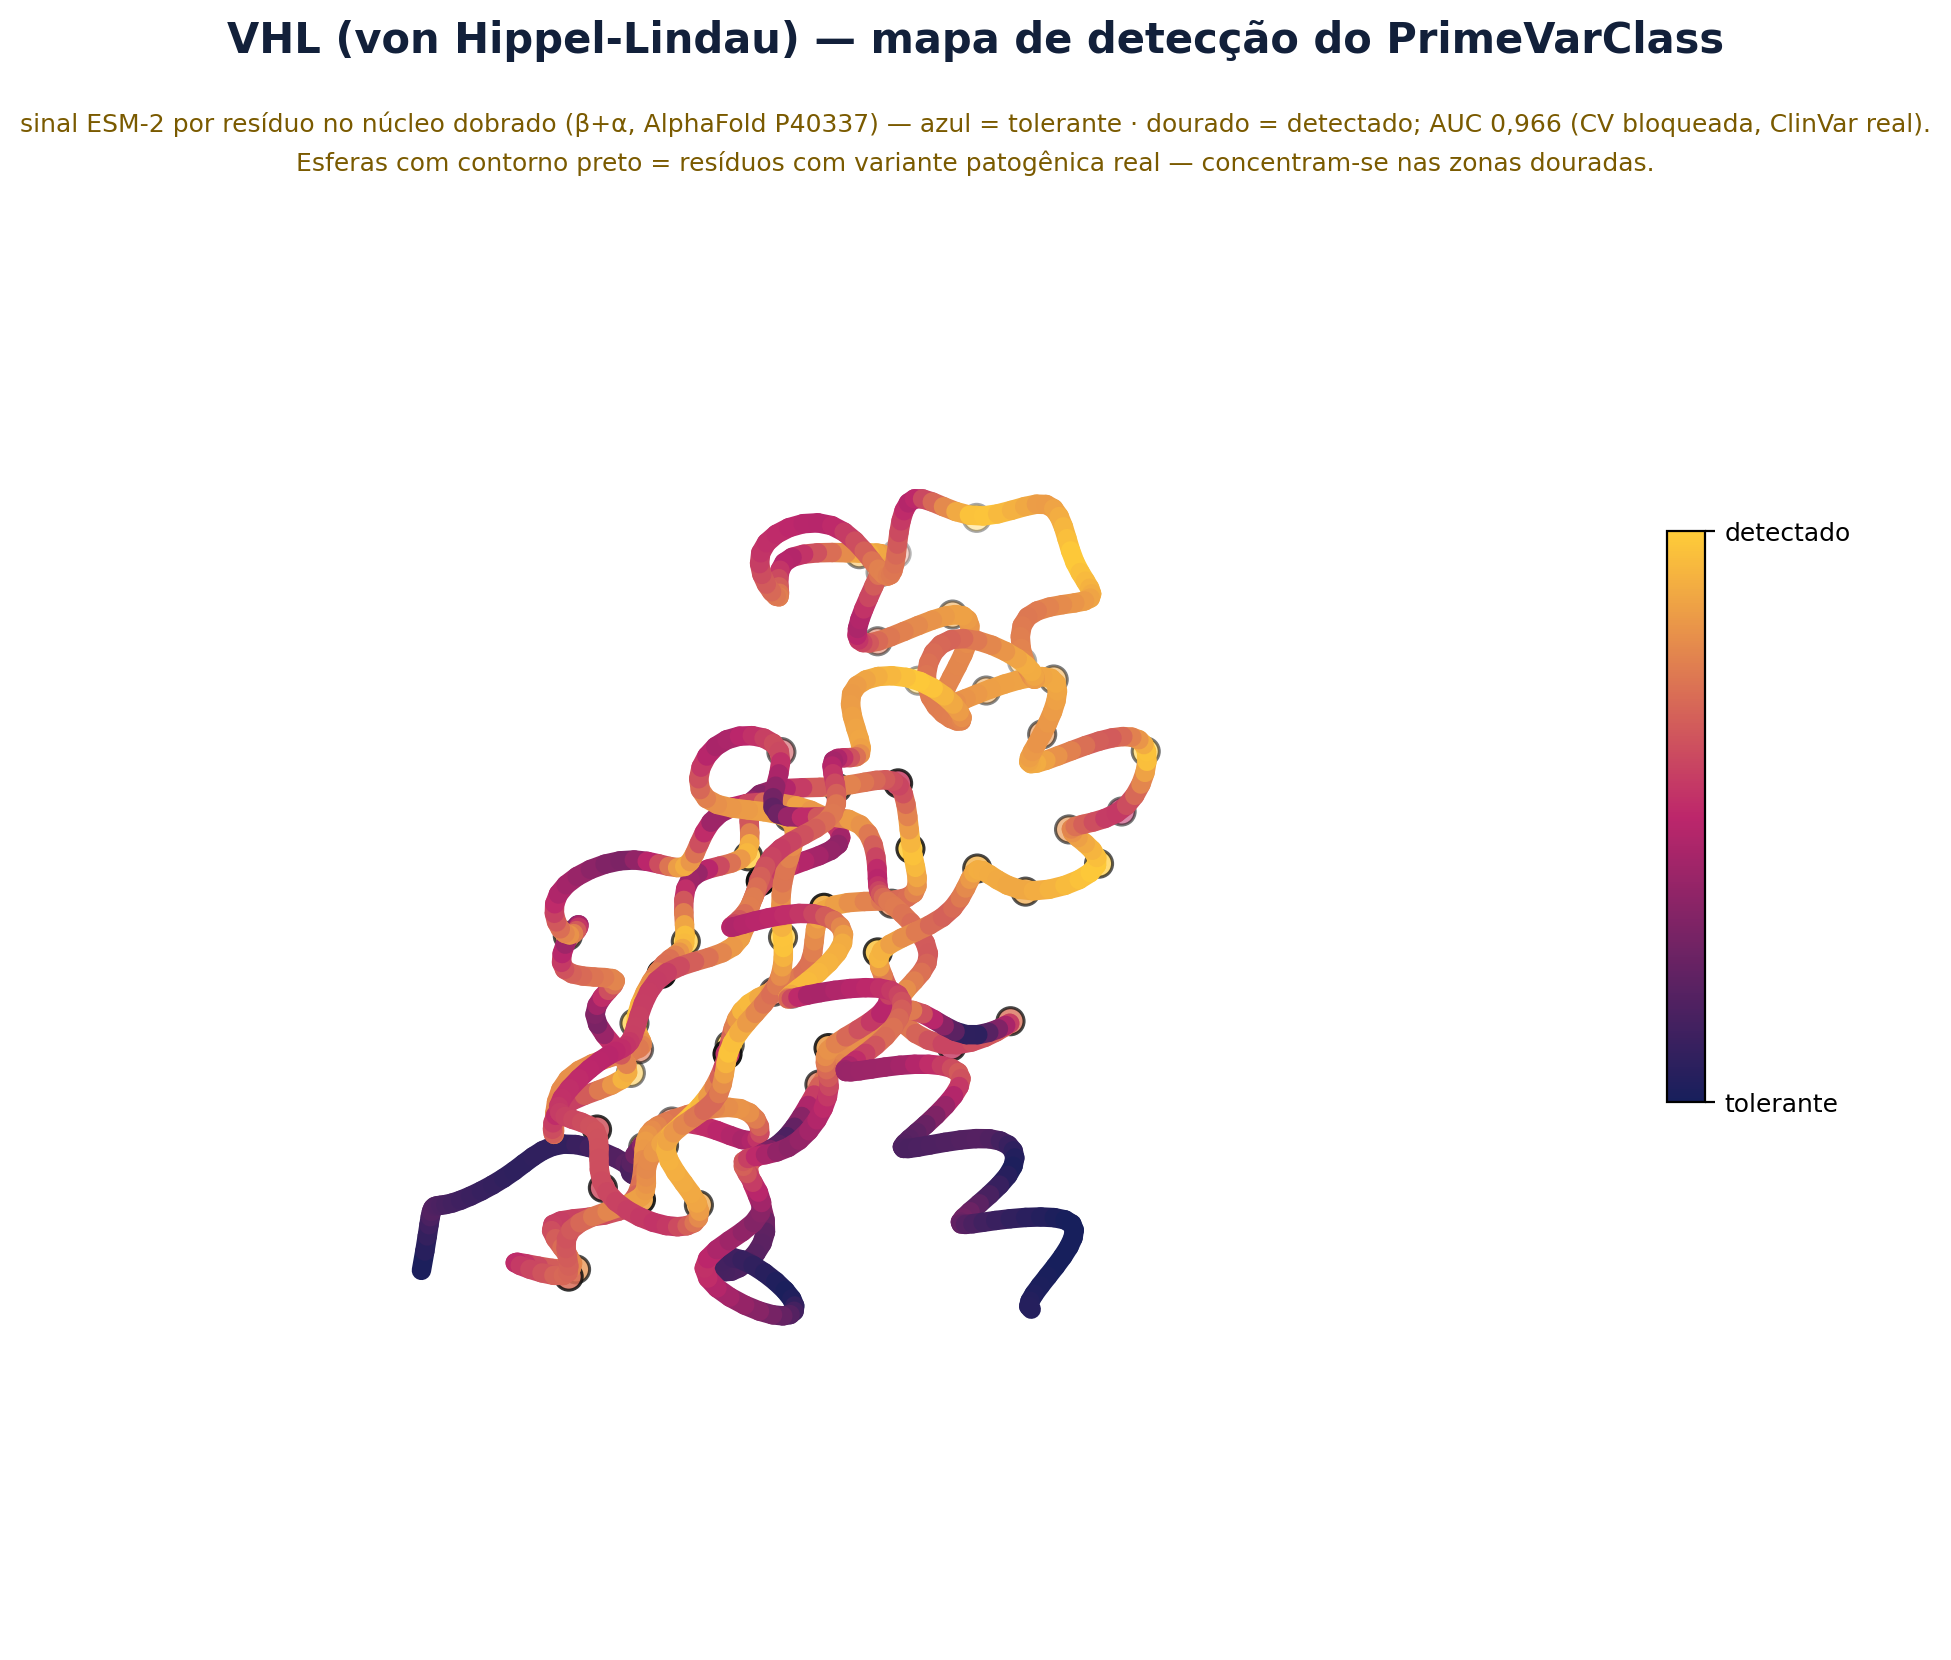
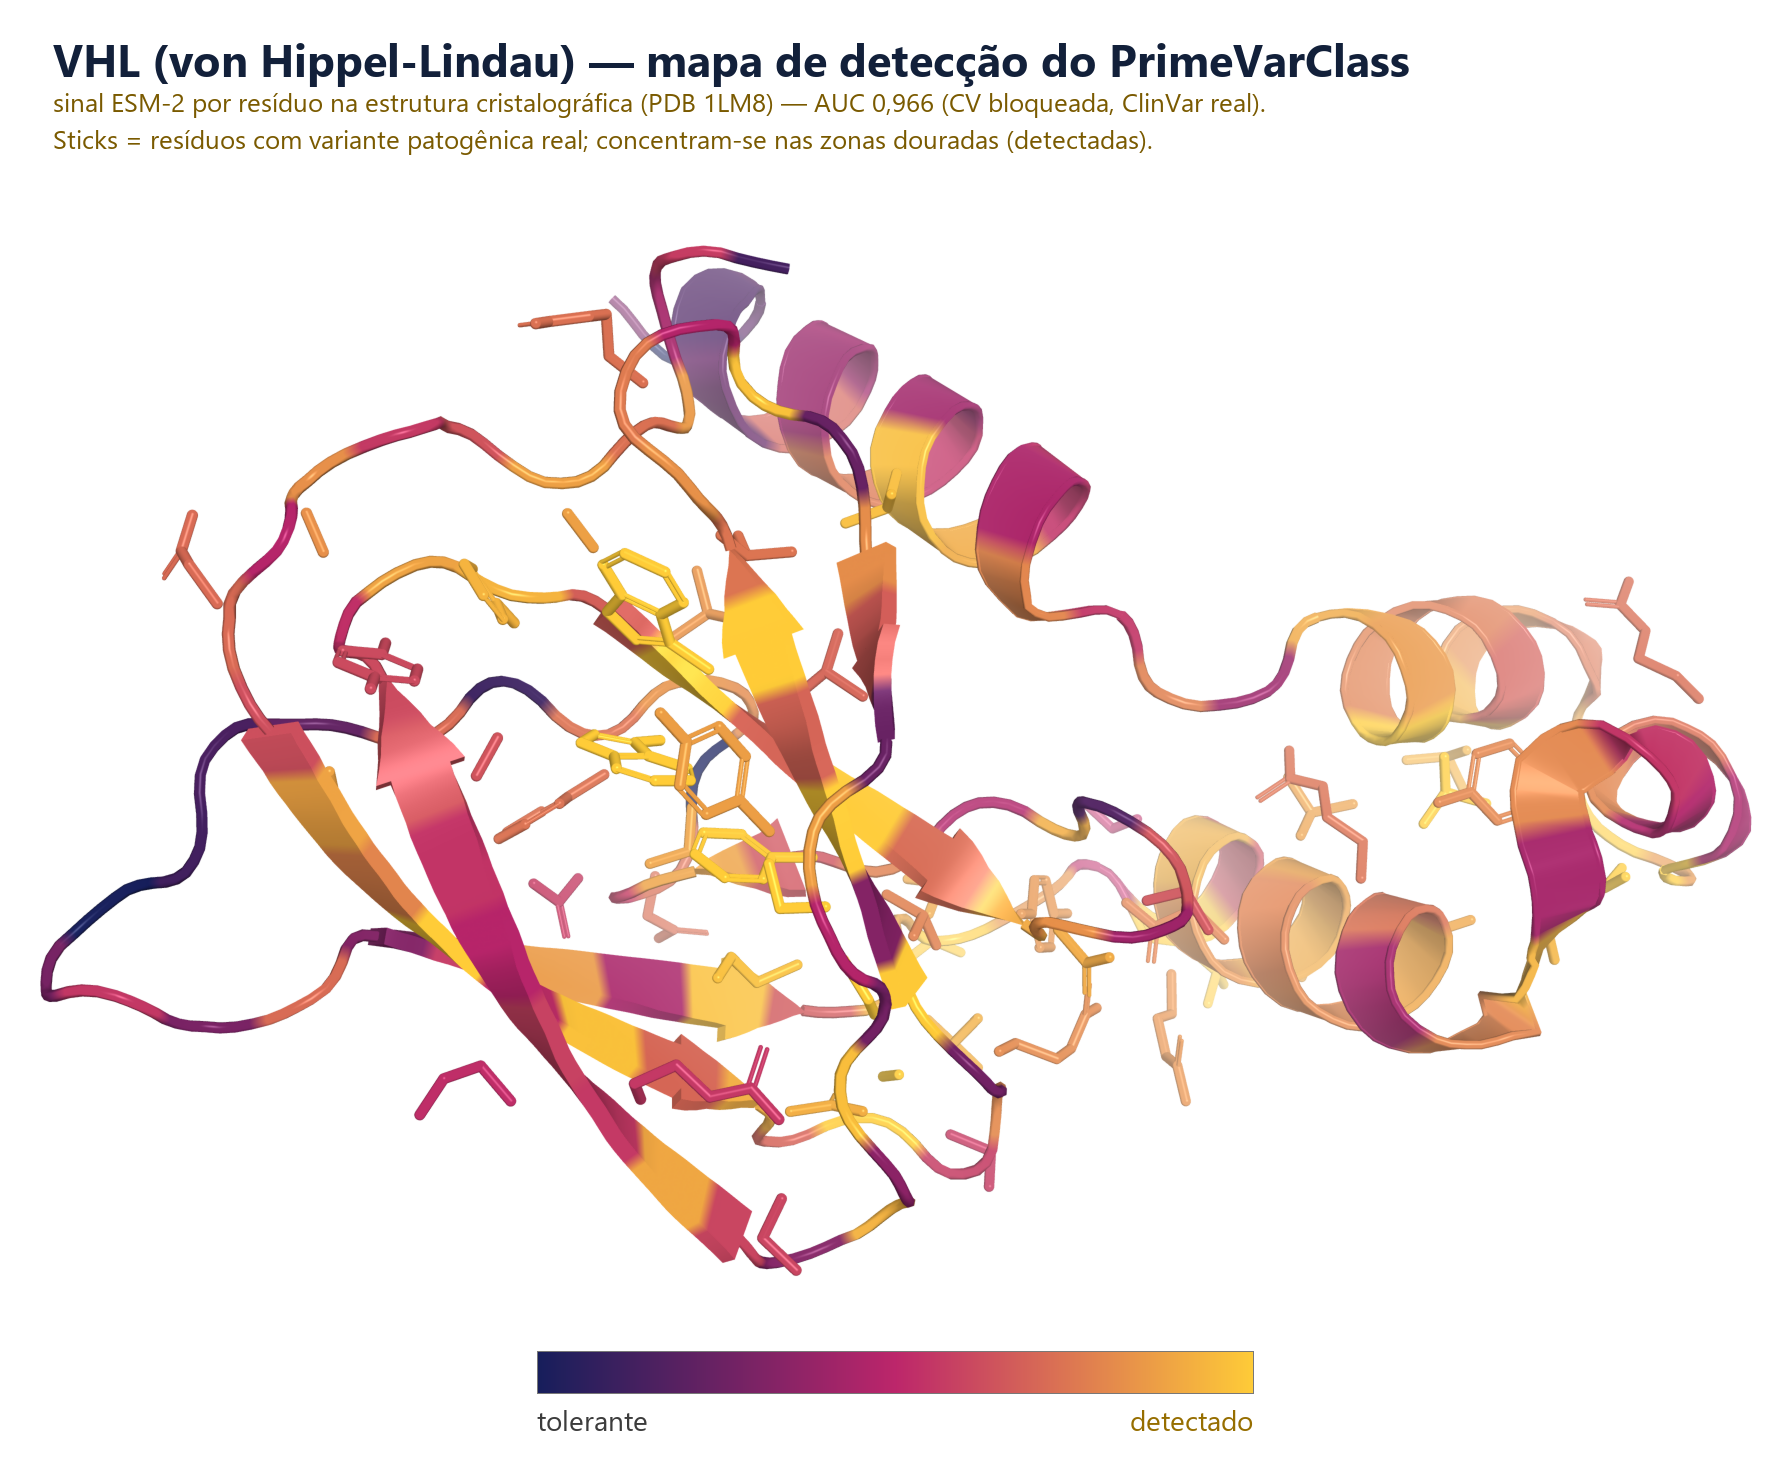
feat(vhl-3d): substitui mapa do VHL por render PyMOL (estrutura real 1LM8, estilo casa)
Renderiza o mapa de deteccao do VHL em PyMOL (open-source, env pymolopen) sobre a
estrutura cristalografica real (PDB 1LM8, cadeia V) — cartoon ray-traced, rampa
azul->dourado (deteccao ESM-2), variantes patogenicas reais como sticks; mesmo padrao
visual das Figuras 3-5 do BRCA. Fig S12c atualizada.
Pipeline: render_vhl_detection.py (CSV) -> pymol_vhl_detection.py -> compose_vhl_figure.py.

diff --git a/scratch/compose_vhl_figure.py b/scratch/compose_vhl_figure.py
@@ -1,0 +1,55 @@
+"""Compose the final VHL supplement figure: the ray-traced PyMOL detection map
+(scratch/pymol/vhl_detection.png, produced by scratch/pymol_vhl_detection.py) with
+a title, subtitle and a blue->gold colour-bar legend. Keeps PyMOL's resolution
+(PIL paste, no resampling).
+
+Run: python scratch/compose_vhl_figure.py
+"""
+import os
+
+import numpy as np
+from PIL import Image, ImageDraw, ImageFont
+
+SRC = "scratch/pymol/vhl_detection.png"
+OUT = "docs/suplementar/figuras/fig_vhl_detection.png"
+RAMP = [(0.09, 0.12, 0.36), (0.74, 0.15, 0.42), (1.00, 0.80, 0.22)]
+
+
+def font(sz, bold=True):
+    for c in (("C:/Windows/Fonts/segoeuib.ttf" if bold else "C:/Windows/Fonts/segoeui.ttf"),
+              "C:/Windows/Fonts/arialbd.ttf", "C:/Windows/Fonts/arial.ttf"):
+        if os.path.exists(c):
+            return ImageFont.truetype(c, sz)
+    return ImageFont.load_default()
+
+
+def lerp(a, b, t):
+    return tuple(int(255 * (a[i] + (b[i] - a[i]) * t)) for i in range(3))
+
+
+im = Image.open(SRC).convert("RGB")
+arr = np.asarray(im); mask = (arr < 245).any(2); ys, xs = np.where(mask)
+pad = 40
+im = im.crop((max(0, xs.min() - pad), max(0, ys.min() - pad),
+              min(im.width, xs.max() + pad), min(im.height, ys.max() + pad)))
+W = im.width; TOP = int(W * 0.115); BOT = int(W * 0.085)
+canvas = Image.new("RGB", (W, TOP + im.height + BOT), "white"); canvas.paste(im, (0, TOP))
+d = ImageDraw.Draw(canvas)
+d.text((int(W * 0.03), int(TOP * 0.14)), "VHL (von Hippel-Lindau) — mapa de detecção do PrimeVarClass",
+       font=font(int(W * 0.0255)), fill=(18, 32, 58))
+y = int(TOP * 0.14) + int(W * 0.031)
+d.text((int(W * 0.03), y), "sinal ESM-2 por resíduo na estrutura cristalográfica (PDB 1LM8) — AUC 0,966 (CV bloqueada, ClinVar real).",
+       font=font(int(W * 0.0150), bold=False), fill=(122, 90, 0))
+d.text((int(W * 0.03), y + int(W * 0.021)), "Sticks = resíduos com variante patogênica real; concentram-se nas zonas douradas (detectadas).",
+       font=font(int(W * 0.0150), bold=False), fill=(122, 90, 0))
+bx0 = int(W * 0.30); bx1 = int(W * 0.70); by0 = TOP + im.height + int(BOT * 0.24); bh = int(BOT * 0.28)
+for i in range(bx1 - bx0):
+    t = i / (bx1 - bx0)
+    d.line([(bx0 + i, by0), (bx0 + i, by0 + bh)], fill=lerp(RAMP[0], RAMP[1], t * 2) if t < 0.5 else lerp(RAMP[1], RAMP[2], (t - 0.5) * 2))
+d.rectangle([bx0, by0, bx1, by0 + bh], outline=(120, 120, 120))
+fs = font(int(W * 0.016), bold=False)
+d.text((bx0, by0 + bh + int(BOT * 0.05)), "tolerante", font=fs, fill=(60, 60, 60))
+r = d.textlength("detectado", font=fs)
+d.text((bx1 - r, by0 + bh + int(BOT * 0.05)), "detectado", font=fs, fill=(150, 110, 0))
+canvas.save(OUT, quality=95)
+print(">> wrote", OUT, canvas.size)

diff --git a/scratch/pymol_vhl_detection.py b/scratch/pymol_vhl_detection.py
@@ -1,0 +1,69 @@
+"""VHL detection map in the house PyMOL style (open-source PyMOL).
+
+Maps the per-residue ESM-2 detection intensity onto the REAL VHL crystal structure
+(PDB 1LM8, chain V = VHL 54-213), B-factor coloured blue (tolerant) -> gold
+(detected), with the real ClinVar-pathogenic residues drawn as sticks. Same
+recipe as scratch/pymol_detection_maps.py (BRCA1), reused for a gene of another
+hereditary-cancer syndrome.
+
+Run:
+  "$HOME/.conda/envs/pymolopen/python.exe" -m pymol -cq scratch/pymol_vhl_detection.py
+"""
+import csv
+import os
+
+from pymol import cmd
+
+OUT = "scratch/pymol"
+os.makedirs(OUT, exist_ok=True)
+cmd.set("fetch_path", cmd.exp_path(OUT))          # keep the fetched PDB out of the repo root
+
+det = {}
+with open("primevarclass_manuscript_analysis/detected_per_residue_vhl.csv") as fh:
+    for r in csv.DictReader(fh):
+        det[int(r["position"])] = float(r["detect"])
+patho = set()
+with open("primevarclass_manuscript_analysis/panel_new_clinvar_labels.csv") as fh:
+    for r in csv.DictReader(fh):
+        if r["gene"] == "VHL" and r["label"] == "1":
+            patho.add(int(r["position"]))
+
+
+def base():
+    cmd.bg_color("white")
+    cmd.set("ray_opaque_background", 1)
+    cmd.set("antialias", 2)
+    cmd.set("ray_shadows", 0)
+    cmd.set("cartoon_fancy_helices", 1)
+    cmd.set("specular", 0.25)
+    cmd.set("ambient", 0.5)
+    cmd.set("cartoon_transparency", 0.0)
+    cmd.set("stick_radius", 0.18)
+
+
+cmd.reinitialize(); base()
+cmd.set_color("det_tol", [0.09, 0.12, 0.36])      # after reinitialize, which resets colors
+cmd.set_color("det_mid", [0.74, 0.15, 0.42])
+cmd.set_color("det_hi", [1.00, 0.80, 0.22])
+cmd.fetch("1lm8", "vhl", type="pdb")
+cmd.remove("vhl and not chain V")
+cmd.remove("solvent"); cmd.remove("hydro")
+sel = "vhl and polymer"
+cmd.alter("vhl", "b=0.0")
+for pos, d in det.items():
+    cmd.alter(f"vhl and resi {pos}", f"b={d}")
+cmd.rebuild()
+cmd.hide("everything")
+cmd.show("cartoon", sel)
+cmd.spectrum("b", "det_tol det_mid det_hi", sel, minimum=0.0, maximum=1.0)
+# real pathogenic residues as sticks (side chains), coloured by their own detection
+if patho:
+    psel = f"vhl and resi {'+'.join(map(str, sorted(patho)))} and not (name N+C+O) and sidechain"
+    cmd.show("sticks", psel)
+    cmd.spectrum("b", "det_tol det_mid det_hi", psel, minimum=0.0, maximum=1.0)
+cmd.orient(sel)
+cmd.turn("y", 20); cmd.turn("x", -8)
+cmd.ray(2000, 1600)
+cmd.png(f"{OUT}/vhl_detection.png", dpi=300)
+print(">> rendered", f"{OUT}/vhl_detection.png")
+cmd.quit()

diff --git a/scratch/render_vhl_detection.py b/scratch/render_vhl_detection.py
@@ -1,15 +1,12 @@
-"""VHL structural detection map — the standout of the expanded panel (AUC 0,966).
-
-Projects the per-residue ESM-2 signal (the transferable component that drives VHL)
-onto the VHL fold and shows that the real ClinVar-pathogenic residues fall in the
-"detected" (high-constraint) zones — without the structure ever being shown to the
-model. Rendered with matplotlib 3D (PyMOL is not required/installed here); the same
-per-residue scores can be piped into PyMOL if the exact house style is wanted.
+"""VHL per-residue detection — computes the ESM-2 detection track that drives VHL
+(AUC 0,966) and a quick matplotlib 3D preview. The CANONICAL supplement figure is
+the ray-traced PyMOL render (scratch/pymol_vhl_detection.py -> scratch/compose_vhl_figure.py);
+this script's job is to produce detected_per_residue_vhl.csv, which PyMOL then reads.
 
 Inputs : scratch/esm_input/esm2_650M_expanded_scores.csv (VHL saturation LLR),
          primevarclass_manuscript_analysis/panel_new_clinvar_labels.csv (real labels)
-Outputs: docs/suplementar/figuras/fig_vhl_detection.png
-         primevarclass_manuscript_analysis/detected_per_residue_vhl.csv
+Outputs: primevarclass_manuscript_analysis/detected_per_residue_vhl.csv  (used by PyMOL)
+         primevarclass_manuscript_analysis/fig_vhl_detection_mpl.png     (preview only)
 
 Run: python scratch/render_vhl_detection.py
 """
@@ -30,7 +27,7 @@ from mpl_toolkits.mplot3d.art3d import Line3DCollection
 from scipy.interpolate import splev, splprep
 
 ANL = "primevarclass_manuscript_analysis"
-FIG = "docs/suplementar/figuras/fig_vhl_detection.png"
+FIG = "primevarclass_manuscript_analysis/fig_vhl_detection_mpl.png"  # preview; canonical fig is PyMOL
 CORE_START = 54   # folded β+α core; the disordered N-terminus (1-53) is dropped for clarity
 RAMP = [(0.09, 0.12, 0.36), (0.74, 0.15, 0.42), (1.00, 0.80, 0.22)]
 

diff --git a/docs/suplementar/PrimeVarClass_Material_Suplementar.md b/docs/suplementar/PrimeVarClass_Material_Suplementar.md
@@ -261,7 +261,7 @@ Para testar se a receita ultrapassa o câncer de mama/ovário, aplicou-se o **me
 
 ![Figura S12c](figuras/fig_vhl_detection.png)
 
-**Figura S12c.** Mapa estrutural de detecção do **VHL** (o gene de maior AUC, 0,966). O sinal ESM-2 por resíduo é projetado sobre a estrutura (AlphaFold P40337, núcleo dobrado β+α): as zonas **douradas** (alta restrição, detectadas) concentram-se no núcleo funcional, e os resíduos com **variante patogênica real** do ClinVar (esferas com contorno preto) caem justamente nelas — sem que a estrutura tenha sido informada ao modelo. É a mesma assinatura vista em BRCA1 (RING/BRCT), reproduzida em um gene de outra síndrome hereditária. Escores por resíduo em `detected_per_residue_vhl.csv`; script `scratch/render_vhl_detection.py`.
+**Figura S12c.** Mapa estrutural de detecção do **VHL** (o gene de maior AUC, 0,966), renderizado em PyMOL sobre a **estrutura cristalográfica real** (PDB 1LM8, cadeia V; domínios β+α). O sinal ESM-2 por resíduo colore a cadeia de **azul** (tolerante) a **dourado** (detectado): as zonas douradas concentram-se no núcleo funcional, e os resíduos com **variante patogênica real** do ClinVar (mostrados como *sticks*) caem justamente nelas — sem que a estrutura tenha sido informada ao modelo. É a mesma assinatura vista em BRCA1 (RING/BRCT), reproduzida em um gene de outra síndrome hereditária. Escores por resíduo em `detected_per_residue_vhl.csv`; scripts `scratch/pymol_vhl_detection.py` + `scratch/compose_vhl_figure.py`.
 
 ---
 
